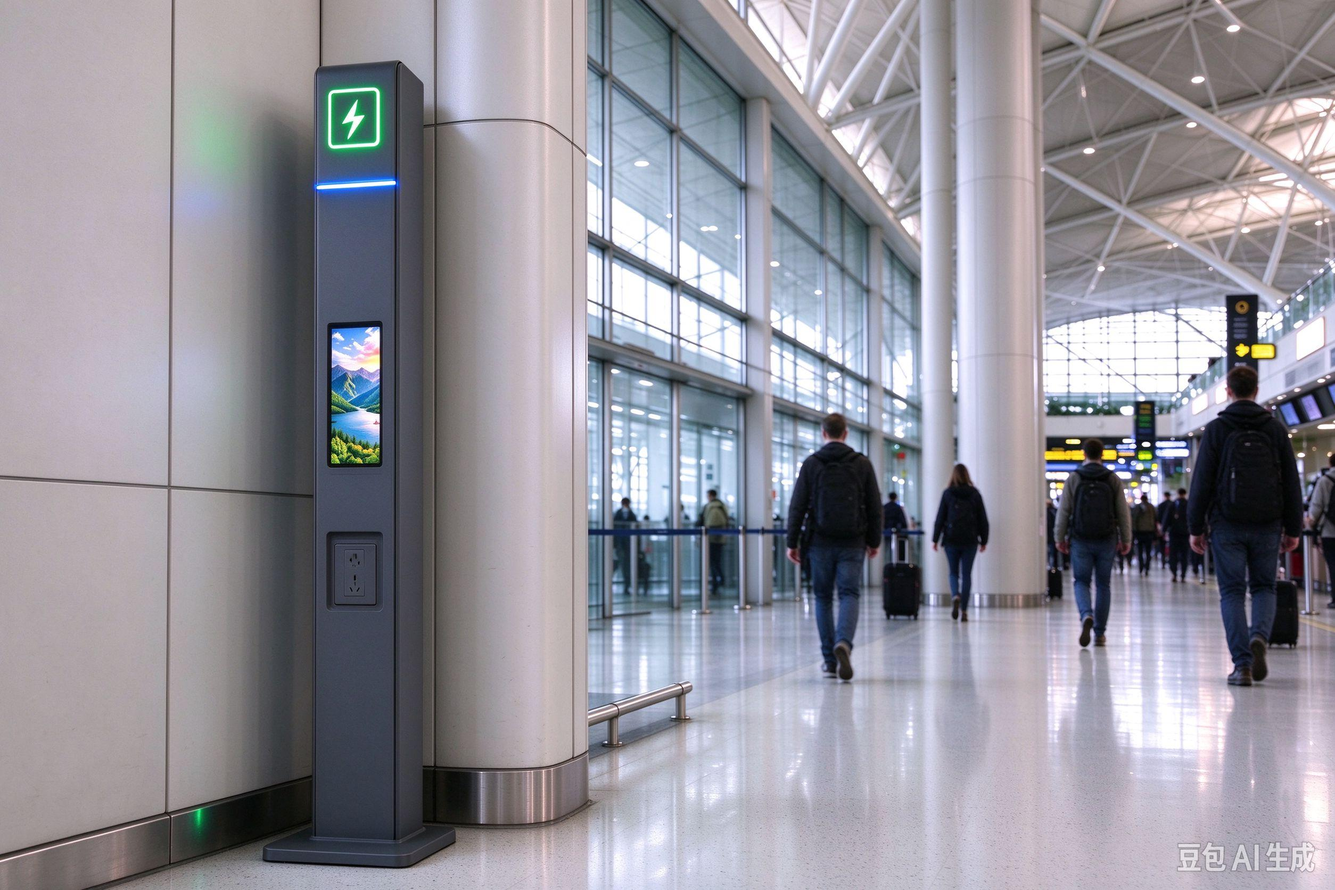
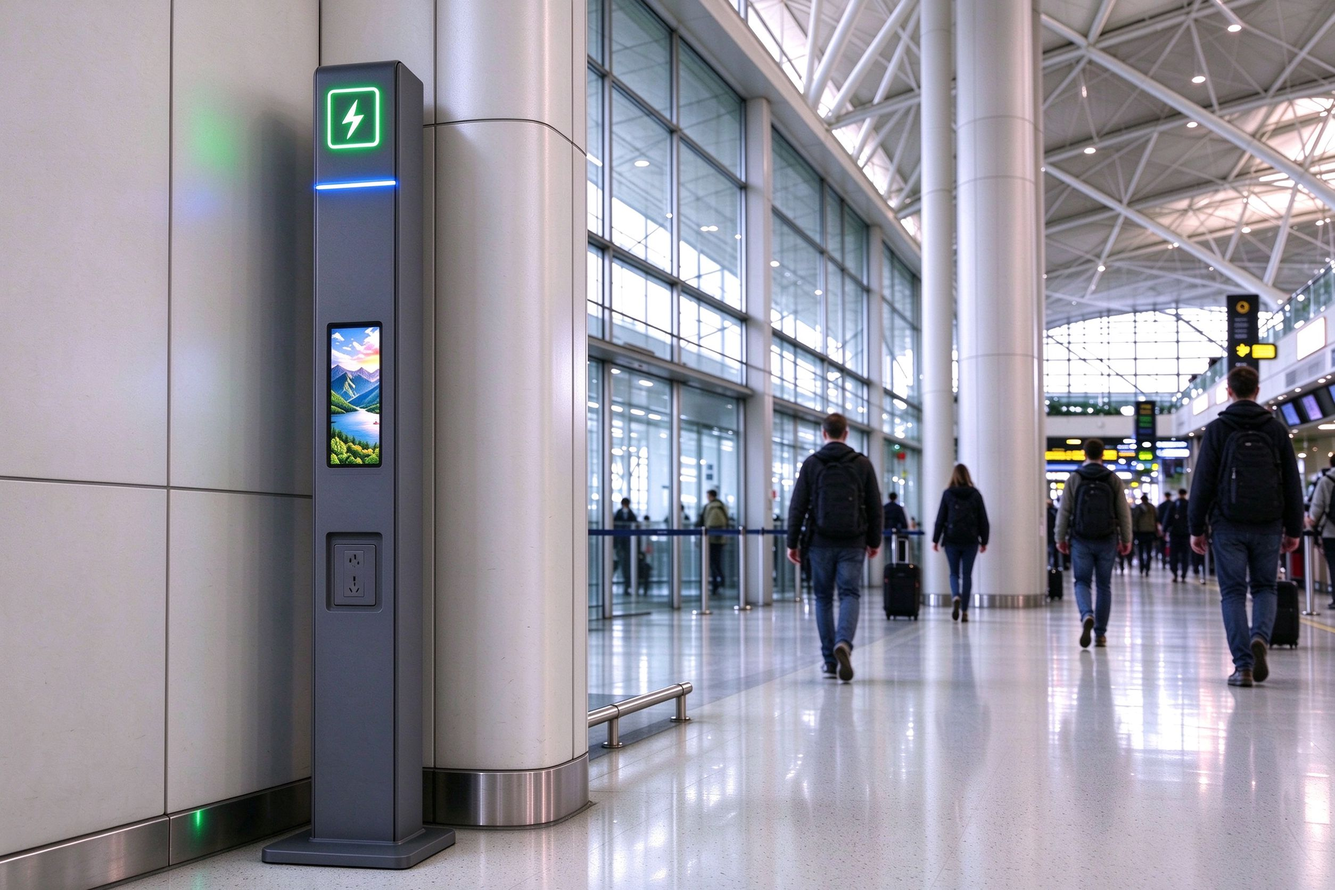
placeholder update

diff --git a/product/other-products.html b/product/other-products.html
@@ -39,18 +39,18 @@
 <meta property="og:url" content="https://www.zhanxinglobal.com/product/other-products">
 <meta property="og:title" content="Other Products">
 <meta property="og:description" content="Custom outdoor, airport and urban furniture manufacturing service, covering various product types beyond our main product line.">
-<meta property="og:image" content="https://www.zhanxinglobal.com/uploads/placeholder.jpg">
+<meta property="og:image" content="https://www.zhanxinglobal.com/uploads/others-charging-column.jpg">
 <meta name="twitter:card" content="summary_large_image">
 <meta name="twitter:title" content="Other Products">
 <meta name="twitter:description" content="Custom outdoor, airport and urban furniture manufacturing service, covering various product types beyond our main product line.">
-<meta name="twitter:image" content="https://www.zhanxinglobal.com/uploads/placeholder.jpg">
+<meta name="twitter:image" content="https://www.zhanxinglobal.com/uploads/others-charging-column.jpg">
 <script type="application/ld+json">
 {
   "@context": "https://schema.org",
   "@type": "Product",
   "name": "Other Products",
   "description": "Custom outdoor, airport and urban furniture manufacturing service, covering various product types beyond our main product line.",
-  "image": "https://www.zhanxinglobal.com/uploads/placeholder.jpg",
+  "image": "https://www.zhanxinglobal.com/uploads/others-charging-column.jpg",
   "url": "https://www.zhanxinglobal.com/product/other-products",
   "category": "Other Products",
   "manufacturer": {
@@ -145,7 +145,7 @@ footer a{color:#ffb040;text-decoration:none;}
 </div>
 <div class="container">
   <div class="img-box">
-    <img src="/uploads/placeholder.jpg?v=20261020" alt="Other Products" onerror="this.src='https://via.placeholder.com/800x600?text=No+Image'">
+    <img src="/uploads/others-charging-column.jpg?v=20261020" alt="Other Products" onerror="this.src='https://via.placeholder.com/800x600?text=No+Image'">
   </div>
   <div class="info-box">
     <h1>Other Products</h1>
@@ -175,7 +175,7 @@ document.getElementById('inquiryBtn').addEventListener('click', function() {
 });
 
 // 多语言切换
-const productData = {"slug": "other-products", "category": "other", "image": "/uploads/placeholder.jpg", "title": {"en": "Other Products", "zh": "其他产品", "es": "Otros productos", "fr": "Autres produits", "de": "Sonstige Produkte", "ja": "その他製品", "ar": "منتجات أخرى"}, "desc": {"en": "Custom outdoor, airport and urban furniture manufacturing service, covering various product types beyond our main product line.", "zh": "定制户外、机场及城市家具制造服务，涵盖主营产品线以外的各类产品。", "es": "Servicio de fabricación de mobiliario exterior, aeroportuario y urbano personalizado, cubriendo diversos tipos de productos más allá de nuestra línea principal.", "fr": "Service de fabrication de mobilier extérieur, aéroportuaire et urbain sur-mesure, couvrant divers types de produits au-delà de notre gamme principale.", "de": "Fertigungsservice für kundenspezifische Außen-, Flughafen- und Stadtmöbel, der verschiedene Produktarten außerhalb unserer Hauptlinie abdeckt.", "ja": "屋外・空港・都市家具の特注製造サービス、主力製品以外の各種製品に対応。", "ar": "خدمة تصنيع أثاث خارجي ومطار وحضري مخصص، تغطي أنواع المنتجات المختلفة بما يتجاوز خط إنتاجنا الرئيسي."}, "specs": {"dimensions": "Custom per product type", "accessories": "Full custom OEM/ODM service"}};
+const productData = {"slug": "other-products", "category": "other", "image": "/uploads/others-charging-column.jpg", "title": {"en": "Other Products", "zh": "其他产品", "es": "Otros productos", "fr": "Autres produits", "de": "Sonstige Produkte", "ja": "その他製品", "ar": "منتجات أخرى"}, "desc": {"en": "Custom outdoor, airport and urban furniture manufacturing service, covering various product types beyond our main product line.", "zh": "定制户外、机场及城市家具制造服务，涵盖主营产品线以外的各类产品。", "es": "Servicio de fabricación de mobiliario exterior, aeroportuario y urbano personalizado, cubriendo diversos tipos de productos más allá de nuestra línea principal.", "fr": "Service de fabrication de mobilier extérieur, aéroportuaire et urbain sur-mesure, couvrant divers types de produits au-delà de notre gamme principale.", "de": "Fertigungsservice für kundenspezifische Außen-, Flughafen- und Stadtmöbel, der verschiedene Produktarten außerhalb unserer Hauptlinie abdeckt.", "ja": "屋外・空港・都市家具の特注製造サービス、主力製品以外の各種製品に対応。", "ar": "خدمة تصنيع أثاث خارجي ومطار وحضري مخصص، تغطي أنواع المنتجات المختلفة بما يتجاوز خط إنتاجنا الرئيسي."}, "specs": {"dimensions": "Custom per product type", "accessories": "Full custom OEM/ODM service"}};
 const categoryI18n = {"en": {"lightbox": "Light Box", "sign": "Wayfinding Signage", "display": "LED Display Screen", "bus": "Bus Shelter", "custom-steel-aluminum": "Custom Metal Structure", "other": "Other Products"}, "zh": {"lightbox": "灯箱", "sign": "导向标识", "display": "LED显示屏", "bus": "公交候车亭", "custom-steel-aluminum": "定制金属结构", "other": "其他产品"}, "es": {"lightbox": "Caja de luz", "sign": "Señalización de orientación", "display": "Pantalla LED", "bus": "Refugio de autobús", "custom-steel-aluminum": "Estructura metálica personalizada", "other": "Otros productos"}, "fr": {"lightbox": "Caisson lumineux", "sign": "Signalétique d'orientation", "display": "Écran LED", "bus": "Abri bus", "custom-steel-aluminum": "Structure métallique sur mesure", "other": "Autres produits"}, "de": {"lightbox": "Leuchtkasten", "sign": "Leitsystem-Schilder", "display": "LED-Displays", "bus": "Bushaltestelle", "custom-steel-aluminum": "Kundenspezifische Metallkonstruktion", "other": "Sonstige Produkte"}, "ja": {"lightbox": "ライトボックス", "sign": "案内サイン", "display": "LEDディスプレイ", "bus": "バス待合所", "custom-steel-aluminum": "特注金属構造物", "other": "その他製品"}, "ar": {"lightbox": "صندوق ضوئي", "sign": "لوحات الإرشاد", "display": "شاشات LED", "bus": "ملجأ الحافلات", "custom-steel-aluminum": "هياكل معدنية مخصصة", "other": "منتجات أخرى"}};
 const navI18n = {"en": {"home": "Home", "products": "Products", "about": "About Us", "quote": "Get a Quote", "inquiry": "Send Inquiry Now", "bc_home": "Home", "bc_products": "Our Products"}, "zh": {"home": "首页", "products": "产品", "about": "关于我们", "quote": "获取报价", "inquiry": "立即发送询价", "bc_home": "首页", "bc_products": "全部产品"}, "es": {"home": "Inicio", "products": "Productos", "about": "Nosotros", "quote": "Solicitar precio", "inquiry": "Enviar consulta", "bc_home": "Inicio", "bc_products": "Nuestros productos"}, "fr": {"home": "Accueil", "products": "Produits", "about": "À propos", "quote": "Demander un devis", "inquiry": "Envoyer une demande", "bc_home": "Accueil", "bc_products": "Nos produits"}, "de": {"home": "Startseite", "products": "Produkte", "about": "Über uns", "quote": "Angebot anfordern", "inquiry": "Anfrage senden", "bc_home": "Startseite", "bc_products": "Unsere Produkte"}, "ja": {"home": "ホーム", "products": "製品", "about": "会社概要", "quote": "見積もり依頼", "inquiry": "お問い合わせ", "bc_home": "ホーム", "bc_products": "製品一覧"}, "ar": {"home": "الرئيسية", "products": "المنتجات", "about": "من نحن", "quote": "طلب عرض سعر", "inquiry": "إرسال استفسار الآن", "bc_home": "الرئيسية", "bc_products": "منتجاتنا"}};
 const specLabelsI18n = {"en": {"title": "Specifications", "material": "Material", "thickness": "Thickness", "surface": "Surface Finish", "ipRating": "IP Rating", "dimensions": "Dimensions", "brightness": "Brightness", "power": "Power", "accessories": "Optional Accessories"}, "zh": {"title": "规格参数", "material": "材质", "thickness": "厚度", "surface": "表面处理", "ipRating": "防水等级", "dimensions": "尺寸", "brightness": "亮度", "power": "功耗", "accessories": "可选配件"}, "es": {"title": "Especificaciones", "material": "Material", "thickness": "Grosor", "surface": "Acabado superficial", "ipRating": "Grado IP", "dimensions": "Dimensiones", "brightness": "Brillo", "power": "Potencia", "accessories": "Accesorios opcionales"}, "fr": {"title": "Spécifications", "material": "Matériau", "thickness": "Épaisseur", "surface": "Finition de surface", "ipRating": "Indice IP", "dimensions": "Dimensions", "brightness": "Luminosité", "power": "Puissance", "accessories": "Accessoires optionnels"}, "de": {"title": "Technische Daten", "material": "Material", "thickness": "Dicke", "surface": "Oberflächenveredelung", "ipRating": "IP-Schutzart", "dimensions": "Abmessungen", "brightness": "Helligkeit", "power": "Leistung", "accessories": "Optionales Zubehör"}, "ja": {"title": "仕様", "material": "材質", "thickness": "厚さ", "surface": "表面処理", "ipRating": "IP等級", "dimensions": "寸法", "brightness": "明るさ", "power": "消費電力", "accessories": "オプション部品"}, "ar": {"title": "المواصفات", "material": "المادة", "thickness": "السماكة", "surface": "تشطيب السطح", "ipRating": "درجة الحماية IP", "dimensions": "الأبعاد", "brightness": "السطوع", "power": "القدرة", "accessories": "إكسسوارات اختيارية"}};

diff --git a/products.html b/products.html
@@ -519,7 +519,7 @@ footer a:hover{
       <h2 class="category-title">Other Products</h2>
       <div class="product-grid">
         <div class="product-card">
-          <img src="/uploads/placeholder.jpg?v=20261020" alt="Other Products" loading="lazy">
+          <img src="/uploads/others-charging-column.jpg?v=20261020" alt="Other Products" loading="lazy">
           <div class="card-body">
             <h3>Other Products</h3>
             <p>Outdoor, airport and urban furniture, custom outdoor, airport and urban furniture manufacturing</p>
